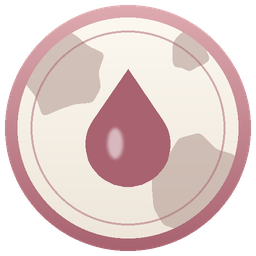
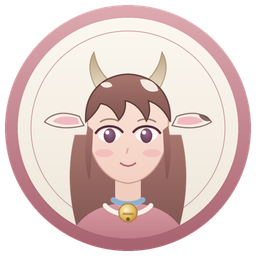
Portrait: an original cow girl instead of the drop
Claude-Session: https://claude.ai/code/session_01Qy9h1uMzWyzXeECcxapSqb

diff --git a/tools/make_dairy_art.py b/tools/make_dairy_art.py
@@ -11,7 +11,7 @@ import os
 import sys
 
 import numpy as np
-from PIL import Image, ImageDraw, ImageFilter, ImageFont
+from PIL import ImageChops, Image, ImageDraw, ImageFilter, ImageFont
 
 OUT = sys.argv[1] if len(sys.argv) > 1 else "Assets"
 SS = 2
@@ -737,6 +737,19 @@ def portrait(ring, letter, size=256, patches=False):
     return img.resize((size, size), Image.LANCZOS)
 
 
+def you_portrait(size=256):
+    """Your portrait: the cow girl (tools/you_face.svg, rendered to you_face.png) inside the rose seal."""
+    s = 512
+    seal = portrait(ROSE, None, size=s)
+    face = Image.open(os.path.join(os.path.dirname(os.path.abspath(__file__)), "you_face.png")).convert("RGBA").resize((470, 470), Image.LANCZOS)
+    inner = line_mask((s, s), lambda d: d.ellipse([s * 0.07, s * 0.07, s * 0.93, s * 0.93], fill=255))
+    layer = Image.new("RGBA", (s, s), (0, 0, 0, 0))
+    layer.alpha_composite(face, (21, 40))
+    layer.putalpha(ImageChops.multiply(layer.split()[3], inner))
+    seal.alpha_composite(layer)
+    return seal.resize((size, size), Image.LANCZOS)
+
+
 def main():
     ui = os.path.join(OUT, "ui")
     icons = os.path.join(OUT, "icons")
@@ -759,7 +772,7 @@ def main():
     seal().save(os.path.join(ui, "seal.png"), optimize=True)
     for name, (fn, ring) in ICONS.items():
         medallion(fn, ring).save(os.path.join(icons, f"{name}.png"), optimize=True)
-    portrait(ROSE, "drop", patches=True).save(os.path.join(avs, "you.png"), optimize=True)
+    you_portrait().save(os.path.join(avs, "you.png"), optimize=True)
     portrait(BLUE, "F").save(os.path.join(avs, "farmhand.png"), optimize=True)
     portrait(SAGE, "T").save(os.path.join(avs, "test.png"), optimize=True)
     print("done")
